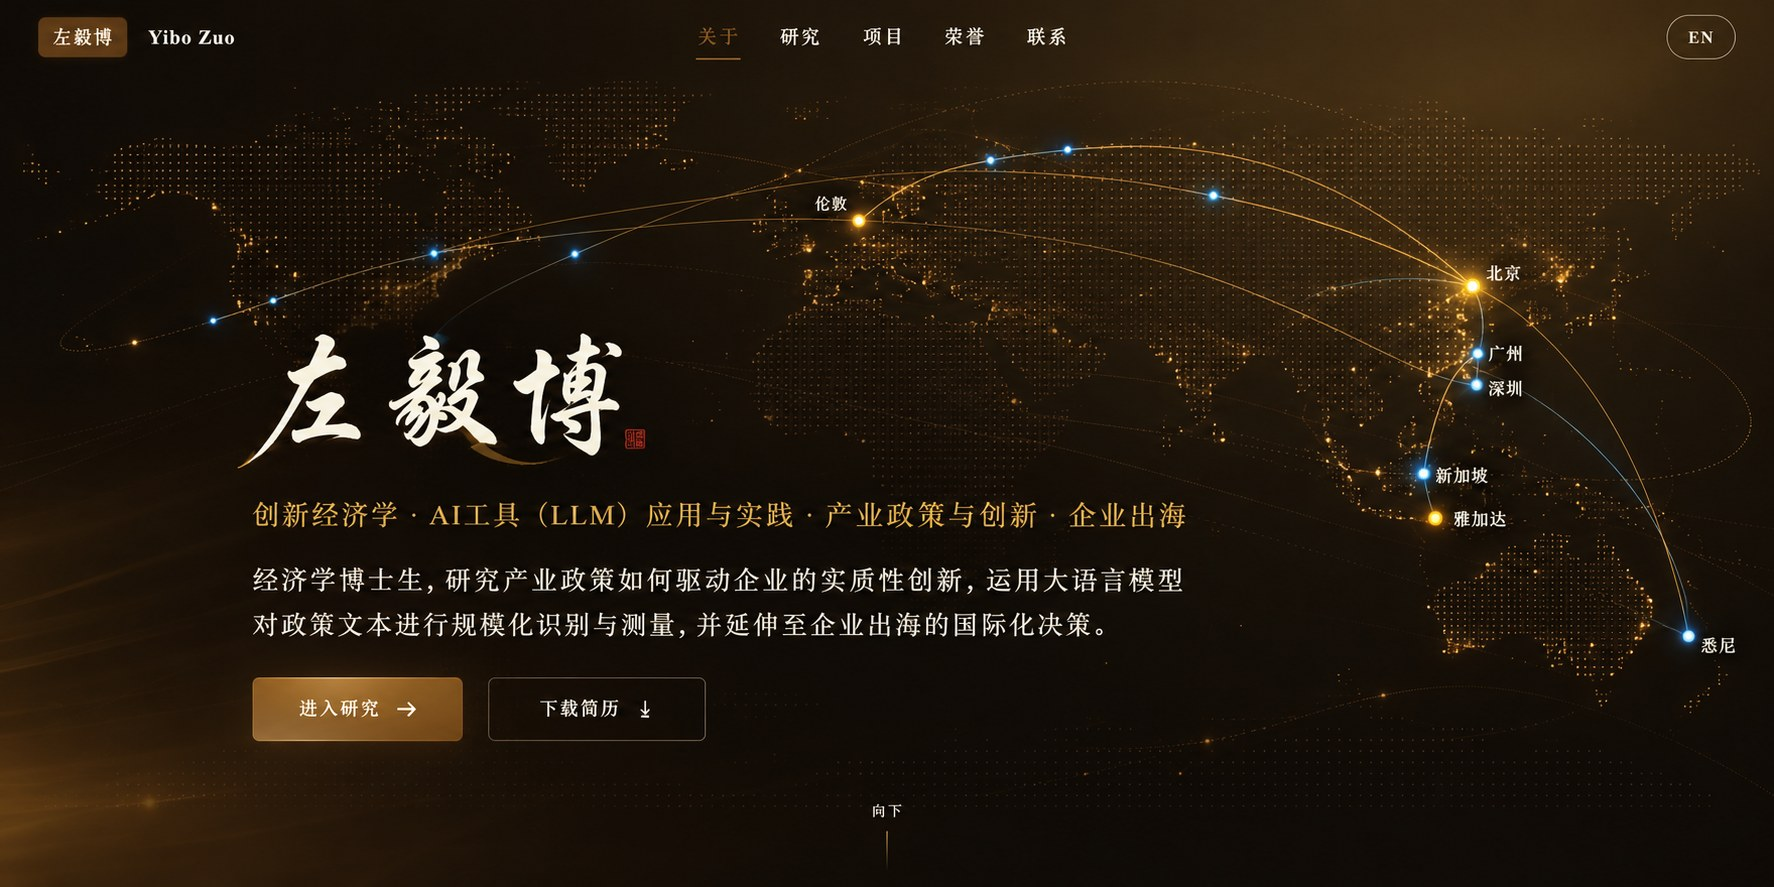
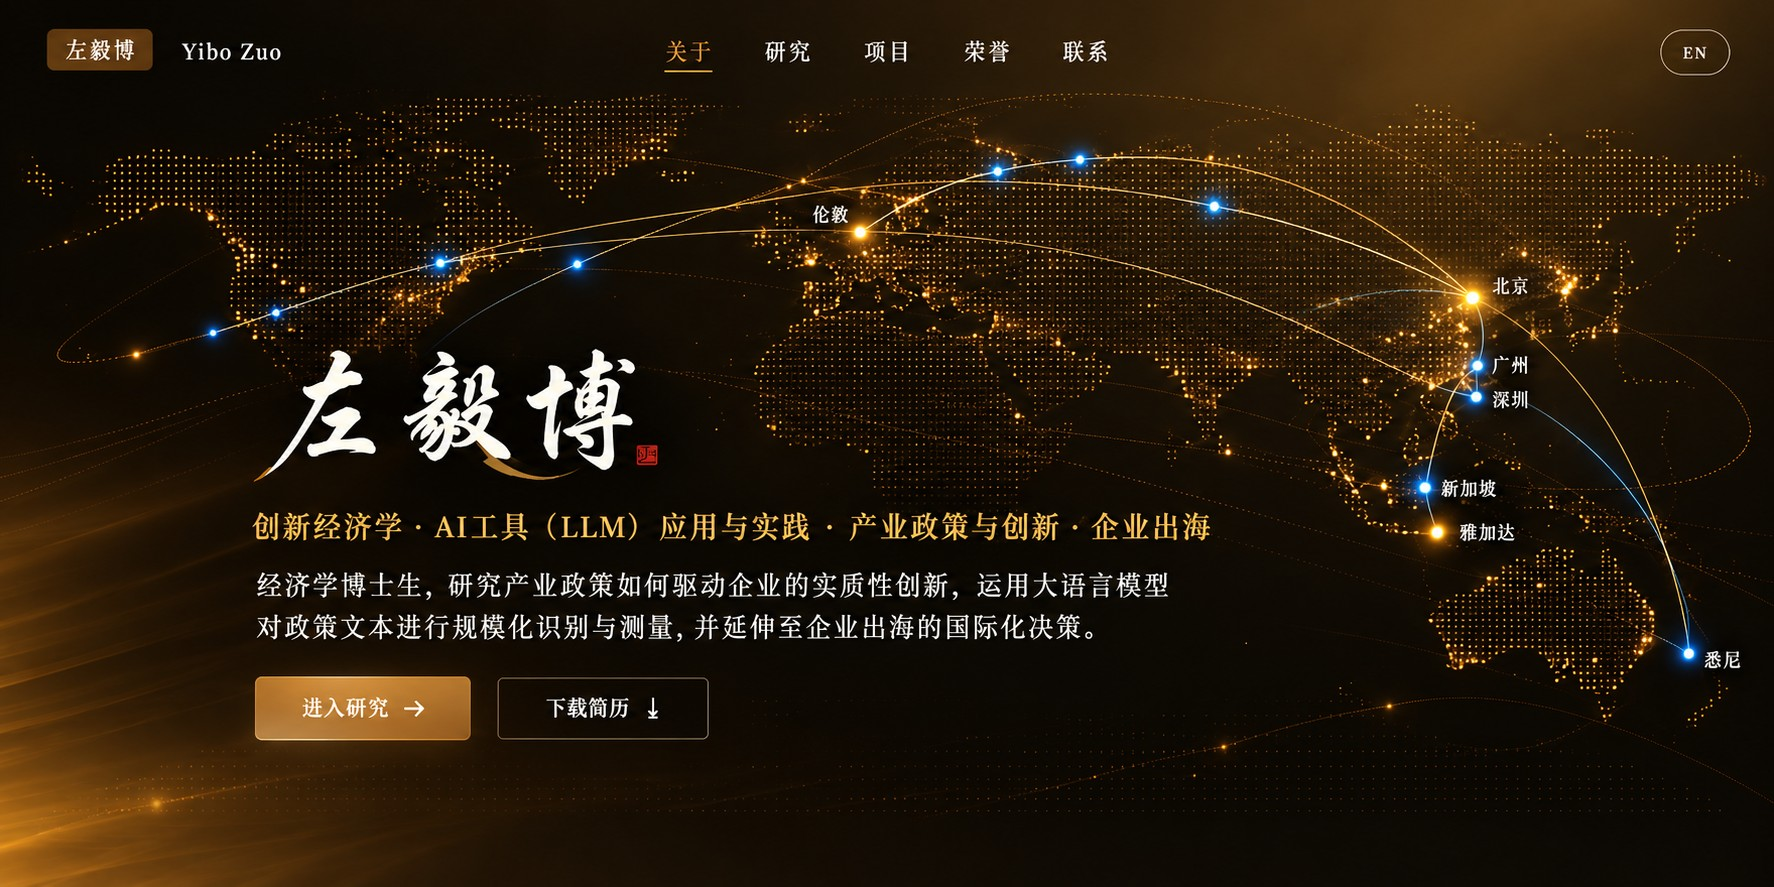
首页背景图换成新版参考图（黑金全球学术主页英雄页），重新校准节点坐标与文字遮罩
- 新图同为1774x887，整体更亮、点阵纹理更丰富
- 用程序实测新图中北京/广州/深圳/新加坡/雅加达/悉尼/伦敦的精确像素坐标，canvas节点重新对齐
- 实测新图中烘焙文字的真实范围（标语行最宽，约67%宽度），重新生成二维文字遮罩
- 伦敦节点的"是否在遮罩区"判断阈值同步更新，避免重复绘制标签

Claude-Session: https://claude.ai/code/session_015bUyjti36PNUkB2FQY5dZb

diff --git a/assets/main.js b/assets/main.js
@@ -62,14 +62,14 @@
   /* ── 4. Hero canvas: global research network ────────── */
   var NODES = [
     /* gold = emphasized hubs (home base + flagship ties) */
-    { en: 'Beijing',   zh: '北京',   fx: 0.8303, fy: 0.3213, accent: 'gold', lab: { a: 'start', dx: 9, dy: -9 } },
-    { en: 'London',    zh: '伦敦',   fx: 0.4848, fy: 0.2469, accent: 'gold', lab: { a: 'end', dx: -9, dy: -9 } },
-    { en: 'Jakarta',   zh: '雅加达', fx: 0.8089, fy: 0.5829, accent: 'gold', lab: { a: 'start', dx: 8, dy: 4 } },
+    { en: 'Beijing',   zh: '北京',   fx: 0.8315, fy: 0.3360, accent: 'gold', lab: { a: 'start', dx: 9, dy: -9 } },
+    { en: 'London',    zh: '伦敦',   fx: 0.4837, fy: 0.2593, accent: 'gold', lab: { a: 'end', dx: -9, dy: -9 } },
+    { en: 'Jakarta',   zh: '雅加达', fx: 0.8134, fy: 0.5547, accent: 'gold', lab: { a: 'start', dx: 8, dy: 4 } },
     /* blue = secondary ties */
-    { en: 'Guangzhou', zh: '广州',   fx: 0.8320, fy: 0.3980, accent: 'blue', lab: { a: 'start', dx: 8, dy: 4 } },
-    { en: 'Shenzhen',  zh: '深圳',   fx: 0.8315, fy: 0.4318, accent: 'blue', lab: { a: 'start', dx: 8, dy: 16 } },
-    { en: 'Singapore', zh: '新加坡', fx: 0.8106, fy: 0.5299, accent: 'blue', lab: { a: 'start', dx: 7, dy: -9 } },
-    { en: 'Sydney',    zh: '悉尼',   fx: 0.9510, fy: 0.7182, accent: 'blue', lab: { a: 'start', dx: 7, dy: 14 } }
+    { en: 'Guangzhou', zh: '广州',   fx: 0.8427, fy: 0.4070, accent: 'blue', lab: { a: 'start', dx: 8, dy: 4 } },
+    { en: 'Shenzhen',  zh: '深圳',   fx: 0.8326, fy: 0.4464, accent: 'blue', lab: { a: 'start', dx: 8, dy: 16 } },
+    { en: 'Singapore', zh: '新加坡', fx: 0.7914, fy: 0.5051, accent: 'blue', lab: { a: 'start', dx: 7, dy: -9 } },
+    { en: 'Sydney',    zh: '悉尼',   fx: 0.9639, fy: 0.7407, accent: 'blue', lab: { a: 'start', dx: 7, dy: 14 } }
   ];
   /* Node fx/fy are pixel fractions measured directly from hero-cover.jpg's
      own city-glow dots (not real geographic lon/lat) so the live canvas
@@ -194,7 +194,7 @@
            label visible; we only add an (English) label there in EN mode,
            offset BELOW the dot so it never sits on the baked Chinese text. */
         var lc = c.lab || {};
-        var inMaskedZone = c.fx < 0.78 && c.fy > 0.30 && c.fy < 0.85;
+        var inMaskedZone = c.fx < 0.72 && c.fy > 0.36 && c.fy < 0.86;
         if (!lc.hide && (lang === 'en' || inMaskedZone)) {
           ctx.font = '600 10px Archivo, "Noto Sans SC", sans-serif';
           ctx.fillStyle = isGold ? 'rgba(247,214,140,.9)' : 'rgba(243,239,222,.55)';

diff --git a/index.html b/index.html
@@ -393,6 +393,6 @@
   </div>
 </footer>
 
-<script src="assets/main.js"></script>
+<script src="assets/main.js?v=2"></script>
 </body>
 </html>
